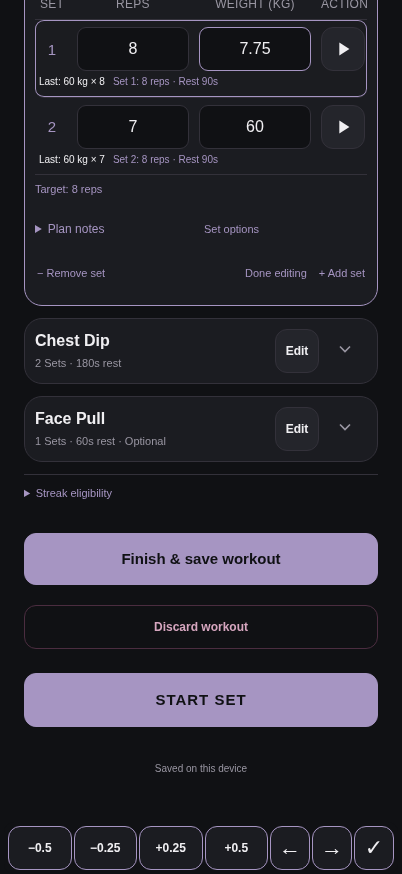
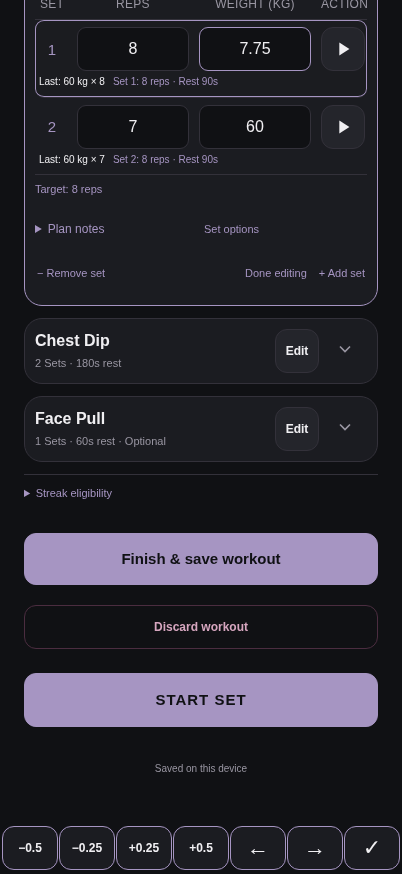
Keep touch targets at least 44px and protect pointer focus before touch handling

diff --git a/src/style.css b/src/style.css
@@ -3129,14 +3129,14 @@ html[data-workout-keyboard='true'] .live-set-controls button {
   --accessory-safe-bottom: env(safe-area-inset-bottom, 0px);
   position: fixed;
   top: 0;
-  left: max(4px, env(safe-area-inset-left));
-  right: max(4px, env(safe-area-inset-right));
+  left: max(2px, env(safe-area-inset-left));
+  right: max(2px, env(safe-area-inset-right));
   z-index: 120;
   visibility: hidden;
   display: grid;
   grid-template-columns: repeat(3, minmax(0, 1fr));
-  gap: 2px;
-  padding: 4px;
+  gap: 1px;
+  padding: 4px 0;
   height: 52px;
   border-radius: 10px;
   background: var(--background);
@@ -3149,7 +3149,7 @@ html[data-workout-keyboard='true'] .live-set-controls button {
   visibility: visible;
 }
 .set-input-navigation[data-weight-controls='true'] {
-  grid-template-columns: repeat(4, minmax(0, 1fr)) repeat(3, 40px);
+  grid-template-columns: repeat(7, minmax(0, 1fr));
 }
 .set-input-navigation button {
   min-width: 0;
@@ -3560,4 +3560,8 @@ html[data-workout-keyboard='true'] .live-set-controls button {
   color: #d6a6bf;
   font-size: 10px;
   line-height: 1.5;
+}
+
+.set-input-navigation button:focus-visible {
+  outline-offset: -3px;
 }

diff --git a/tests/iphone-accessory.spec.ts b/tests/iphone-accessory.spec.ts
@@ -52,6 +52,11 @@ for (const [width, height] of [
     expect(await bar.evaluate((el) => el.parentElement === document.body)).toBe(true);
     const original = (await bar.boundingBox())!;
     expect(original.height).toBe(52);
+    for (const button of await bar.getByRole('button').all()) {
+      const bounds = (await button.boundingBox())!;
+      expect(bounds.width).toBeGreaterThanOrEqual(44);
+      expect(bounds.height).toBeGreaterThanOrEqual(44);
+    }
     await page.evaluate(() => {
       window.scrollBy(0, 24);
       window.dispatchEvent(new Event('scroll'));

diff --git a/src/SetInputNavigation.tsx b/src/SetInputNavigation.tsx
@@ -224,7 +224,7 @@ export function SetInputNavigation() {
       aria-label={label}
       disabled={disabled}
       onPointerDown={(event) => {
-        if (event.pointerType !== 'touch') event.preventDefault();
+        event.preventDefault();
       }}
       onMouseDown={(event) => event.preventDefault()}
       onClick={(event) => {

diff --git a/docs/iphone-keyboard-accessory.md b/docs/iphone-keyboard-accessory.md
@@ -6,7 +6,7 @@ Reported device: **iPhone 17 Pro, iOS 27.3, Safari Add to Home Screen standalone
 
 ## What changed
 
-The app now renders one compact 52px-high row in a direct child portal of `document.body`. The four weight adjustments and Previous/Next/Done occupy the same row; there is one app Done control. Reps show navigation only. Arrow/check icons have full accessible names; controls are at least 40px wide and 44px high at a 320px viewport. Precision remains the existing integer-gram arithmetic (0.001 kg), and accessory actions do not invoke set/timer/workout commands.
+The app now renders one compact 52px-high row in a direct child portal of `document.body`. The four weight adjustments and Previous/Next/Done occupy the same row; there is one app Done control. Reps show navigation only. Arrow/check icons have full accessible names; controls are at least 44px wide and 44px high at a 320px viewport. Precision remains the existing integer-gram arithmetic (0.001 kg), and accessory actions do not invoke set/timer/workout commands.
 
 The old absolute coordinates combined `scrollY`, `scrollX`, `visualViewport.offsetTop`, `offsetLeft` and height, with React position updates on scroll. That was vulnerable to asynchronous native focus scrolling and toolbar movement. The new layer is **fixed**, outside card transforms and drag contexts. Its only vertical model is:
 
@@ -18,7 +18,7 @@ Visible bounds are intersected with the layout safe edge: when the keyboard redu
 
 ## Touch and focus
 
-Previously actions depended on a later click and React pointer prevention alone. Native listeners now cancel the touch default on **non-passive touchstart** before normal focus transfer, and activate on touchend within the same trusted gesture. Touch movement/cancellation does not adjust the weight. Compatibility clicks after touch are suppressed so an increment cannot apply twice. Mouse and keyboard clicks retain semantic-button behavior.
+Previously actions depended on a later click and React pointer prevention alone. Pointer-down prevention is retained for every pointer type. Native listeners additionally cancel the touch default on **non-passive touchstart** before normal focus transfer, and activate on touchend within the same trusted gesture. Touch movement/cancellation does not adjust the weight. Compatibility clicks after touch are suppressed so an increment cannot apply twice. Mouse and keyboard clicks retain semantic-button behavior.
 
 The currently focused input is retained across a protected accessory touch. If focus is lost during that gesture, adjustment restores it synchronously inside touchend before using the ordinary controlled-input handler; no timeout or asynchronous refocus is the sole recovery mechanism. Previous/Next also focus their target synchronously. Done blurs and removes the app accessory. Cancelled interactions clean up retained touch state rather than leaving an invisible input-blocking layer.
 
